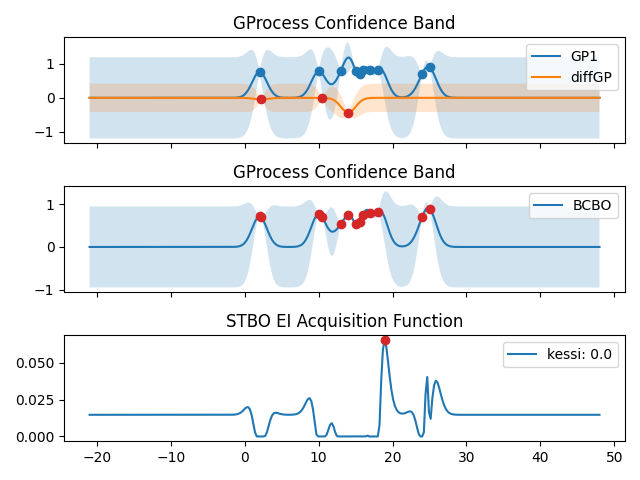
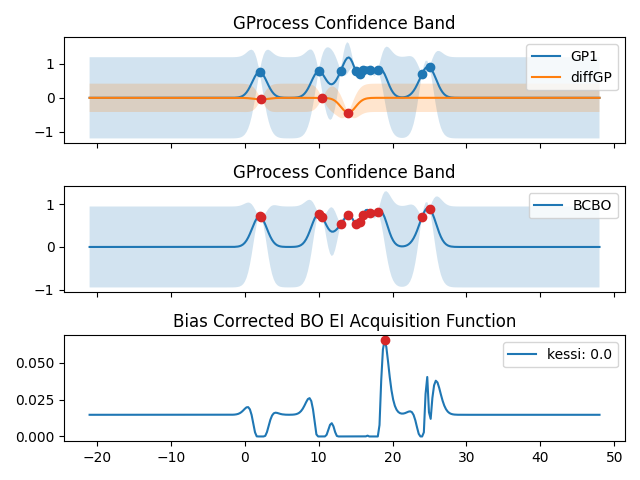
correct plot labels for STBO and BCBO

Changed region(s): [[0.25, 0.6562, 0.8125, 0.6875]]

diff --git a/optimization.py b/optimization.py
@@ -404,7 +404,7 @@ class ShapeTransferBO(ExpectedImprovement, UpperConfidenceBound):
         ax_gp_stbo.legend()
 
         # subplot 3: STBO AC function 
-        ax_ac.set_title("STBO EI Acquisition Function")
+        ax_ac.set_title("Shape Transfer BO EI Acquisition Function")
         for ac_value, kessi in zip(ac_values_lst, kessis):
             ax_ac.plot(x_draw, ac_value, label="kessi: "+str(kessi))
 
@@ -541,7 +541,7 @@ class BiasCorrectedBO(ExpectedImprovement, UpperConfidenceBound):
         ax_gp_bcbo.legend()
 
         # subplot 3: STBO AC function 
-        ax_ac.set_title("STBO EI Acquisition Function")
+        ax_ac.set_title("Bias Corrected BO EI Acquisition Function")
         for ac_value, kessi in zip(ac_values_lst, kessis):
             ax_ac.plot(x_draw, ac_value, label="kessi: "+str(kessi))
 
